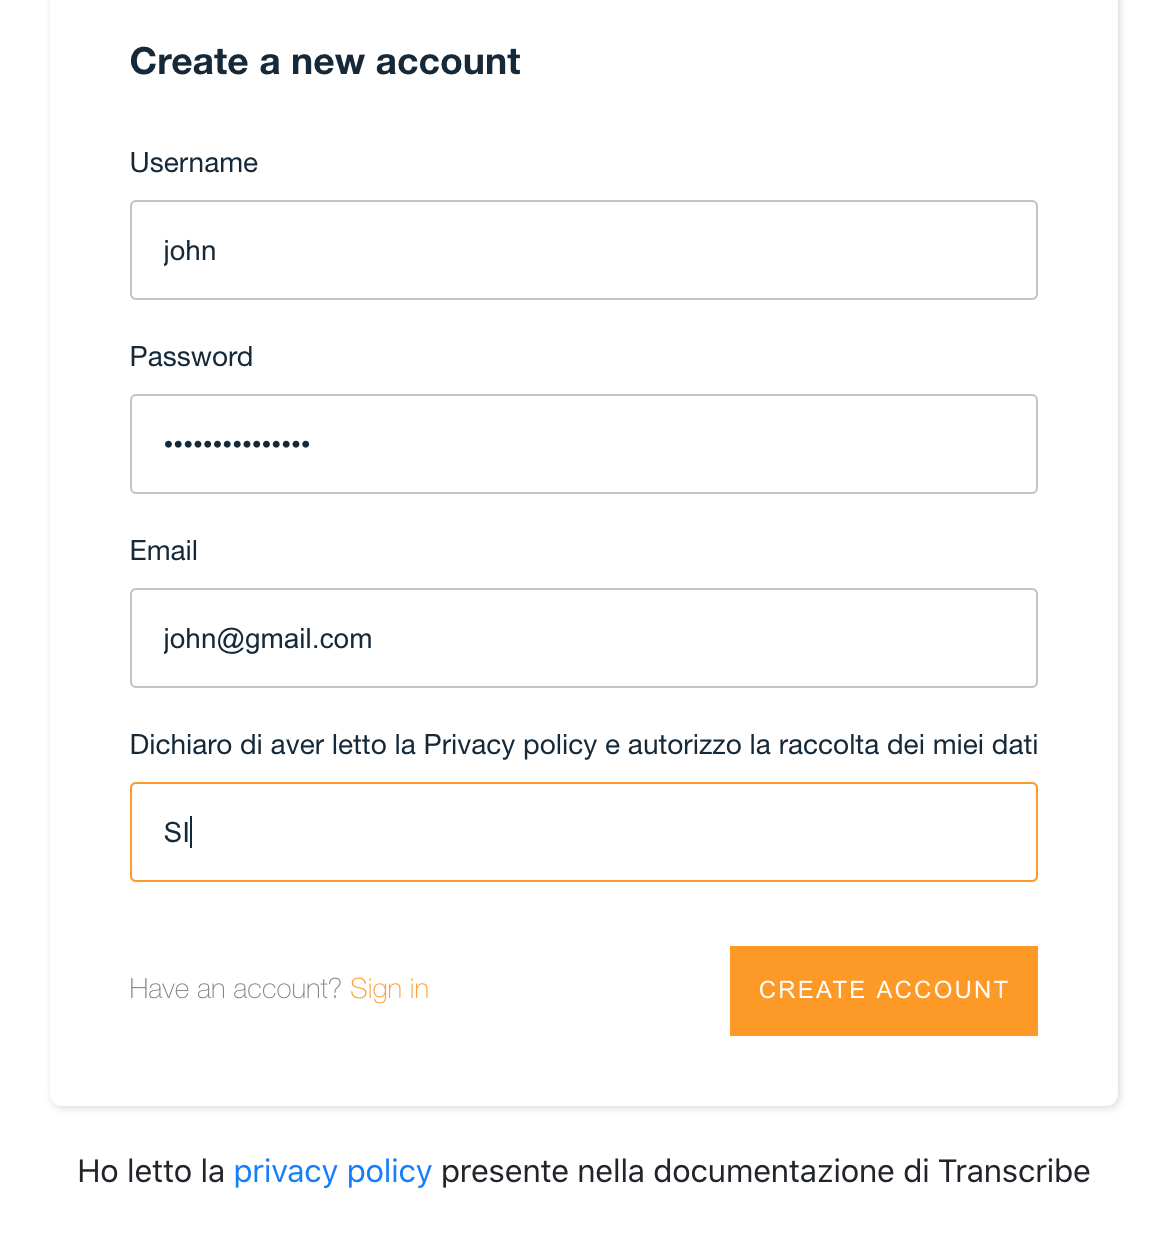
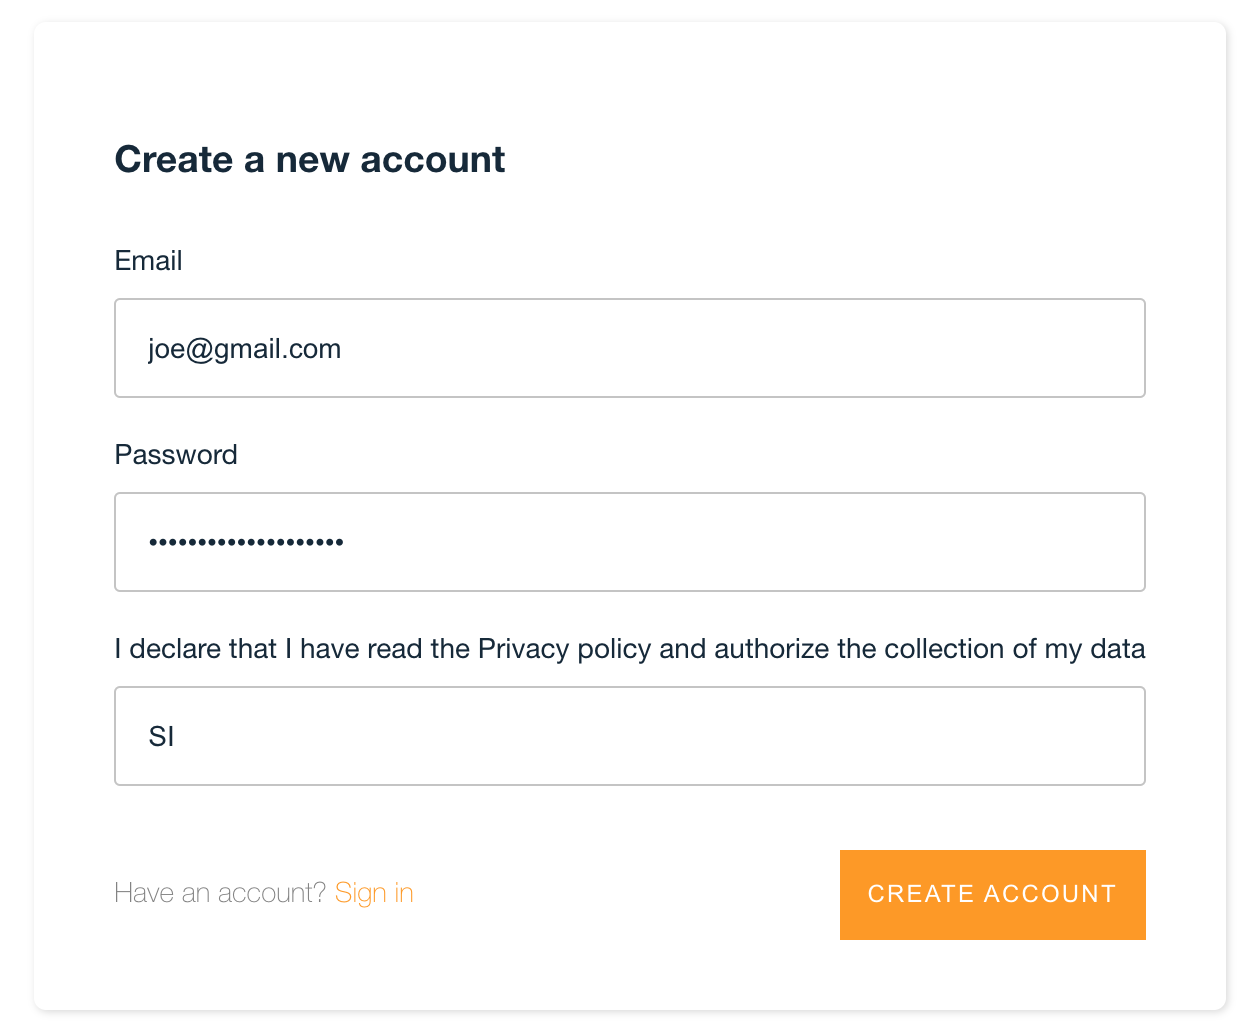
update docs

diff --git a/README.md b/README.md
@@ -9,38 +9,48 @@ Un servizio di speech to text per i vostri audio.
 
 Al momento il servizio è in beta, vi ringrazio per partecipare come pionieri!
 Riporto sotto delle indicazioni, se non capite qualcosa, scrivetemi direttamente su info at(@) refacturing.com
-con oggetto **transcribe: guida non ti capisco, ho una domanda** se avete una domanda sul servizio, oppure con oggetto **transcribe: guida non ti capisco, scrivi meglio** per indicarmi un typo o errori grossolani nella stesura
+con oggetto **transcribe: guida non ti capisco, ho una domanda** se avete una domanda sul servizio, oppure con oggetto **transcribe: guida non ti capisco, scrivi meglio** per indicarmi un typo o errori grossolani nella stesura, altrimenti se preferite la chat di Telegram andate su **t.me/riccardomancinelli**
 
 ## Registrazione/Accesso
 
-La registrazione richiede di inserire dei dati, ad esempio una username, che sarà usata per il login e un’email a cui vi arriveranno le notifiche per le avvenute trascrizioni più i campi standard richiesti, vi troverete davanti ad una schermata come questa
+La registrazione richiede di inserire dei dati, un’email sia per login che per ricevere le notifiche per le avvenute trascrizioni più i campi standard richiesti, vi troverete davanti ad una schermata come questa
 
 
 <img src="./images/createaccount.png"  alt="Create Account" width="400" style="margin:auto;">
 
-procedendo nella registrazione, dopo aver inserito SI nel campo consenso, accettate la privacy policy, che vi segnalo di leggere, ma che in soldoni dice solo che i vostri dati sono usati per garantire il servizio e che potete farli cancellare comunicandomi la vostra scelta su info at(@) refacturing.com con l’oggetto “cancellazione dati servizio transcribe”  e dove nel corpo dovete indicarmi quale è la vostra username (Attenzione l’email usata deve essere la stessa di quella di registrazione e una volta cancellato l’account perderete l’accesso ai file precedenti)
+procedendo nella registrazione, dopo aver inserito SI nel campo consenso, accettate la privacy policy, che vi segnalo di leggere, ma che in soldoni dice solo che i vostri dati sono usati per garantire il servizio e che potete farli cancellare comunicandomi la vostra scelta su info at(@) refacturing.com con l’oggetto “cancellazione dati servizio transcribe”  e dove nel corpo dovete indicarmi l'email usatanel servizio (Attenzione l’email usata deve essere la stessa di quella di registrazione e una volta cancellato l’account perderete l’accesso ai file precedenti)
 
 Una volta registrati dovreste ricevere un’email con un codice, quest’ultimo è necessario per completare la registrazione
 
-La sign-in è garantita inserendo username e password, se dimenticata la password potete reimpostarla cliccando su Reset password
+La sign-in è garantita inserendo email e password, se dimenticata la password potete reimpostarla cliccando su Reset password
     
-Dopo la login in alto capeggia sempre il bottone di signout nella pagina degli upload, per uscire dal sistema
+Dopo la login in alto trovate sempre il bottone di signout nella pagina degli upload, per uscire dal sistema
 
-## Richiedere un piano
+## Cosa sono e a cosa servono i crediti
 
-Per fare upload è richiesta l’attivazione di un piano(avere dei gettoni), se siete nuovi, potete farvi attivare un piano di prova dallo staff, che vi permetterà di avere un piano attivo con 3 gettoni, basta scrivere a t.me/riccardomancinelli e passarmi la vostra username, quindi prima di chiedere un piano assicuratevi di aver completato la registrazione. Se ricevete un piano di prova, dato che è un regalo mi auguro mi potrete ricambiare con un feedback sulla vostra esperienza nell’uso dell’applicativo o di suggerimenti per farlo evolvere, se continuerete ad usare il servizio sarà un regalo ancora più grande.
-
-## Cosa sono e a cosa servono i gettoni
-
-I gettoni consentono di continuare a fare upload e trascrivere i vostri file audio.
+I crediti consentono di continuare a fare upload e trascrivere i vostri file audio.
 Non tutti gli upload sono uguali!
 Al momento non si possono caricare file di dimensione superiore a circa 150 MB (Megabyte)
-Il sistema conteggia, per ogni trascrizione, quanti gettoni servono per ogni file, sulla base delle dimensioni dello stesso.
+Il sistema conteggia, per ogni trascrizione, quanti crediti servono per ogni file, sulla base delle dimensioni dello stesso.
 Più è grande il file da sbobinare più gettoni occorrono.
+Al momento potete comprendere il consumo sulla base di questi dati:
 
-## Acquistare dei gettoni
-Per acquistare i gettoni si attiva una finestra  modale dove il pagamento avviene versando in un conto gestito dal sistema di pagamento Stripe, i gettoni si aggiungeranno tra i gettoni disponibili
-Nel caso terminino i gettoni, l’area di upload scompare finché non saranno riacquistati nuovi gettoni
+* 3 crediti => 4 euro
+* 10 crediti => 12 euro
+* 20 crediti => 22 euro
+
+
+* se la dimensione del file è da <30MB(30 megabyte) il consumo sarà di 1 credito
+* se la dimensione del file è compresa tra 30-60MB il consumo sarà di 2 crediti
+* se la dimensione del file è compresa tra 60-90MB il consumo sarà di 3 crediti
+* se la dimensione del file è compresa 90-120MB il consumo sarà di  4 crediti
+* se la dimensione del file è >120MB ma minore di 150MB il consumo sarà di 5 crediti
+
+## Acquistare dei crediti
+
+Per acquistare i crediti si attiva una finestra  modale dove il pagamento avviene versando in un conto gestito dal sistema di pagamento Stripe, i gettoni si aggiungeranno tra i gettoni disponibili
+Nel caso terminino i gettoni, l’area di upload scompare finché non saranno riacquistati nuovi gettoni.
+Stiamo lavorando per inserire Paypal, se avete necessità di usare paypal scrivetemi sempre nei riferimenti che trovate in questa guida, e vi attiverò il numero di crediti che intendete pagare.
 
 ## Upload
 
@@ -62,6 +72,7 @@ Mettete nell’oggetto “transcribe: problema” nel caso di un problema
 e mettete sempre un recapito a cui posso contattarvi se necessario
 
 Questa versione è in beta(che in informatica significa non ancora definitiva e stabile), è un servizio che ho creato per migliorare le vostre procedure di produzione contenuti, dietro ogni attività c’è sempre molto più lavoro di quello che appare. Vi chiedo di essere sempre comprensivi! Io darò il massimo.
+Come sempre se preferite usare Telegram, scrivetemi su t.me/riccardomancinelli
 
 Grazie
 

diff --git a/roadmap.md b/roadmap.md
@@ -4,6 +4,11 @@ currentMenu: roadmap
 
 ## Progetto prima versione beta
 
+**Release Date:26/04/2021**
+
+* chiunque ha provato o registrato all'applicazione prima di questa data deve registrarsi ora con l'email che aveva usato nella registrazione predente, così facendo recupera tutto lo storico.
+La username e email creavano confusione nell'utente finale.
+
 **Release Date:15/10/2020**
 
 * aggiunta scelta lingua tra italiano e inglese americano
